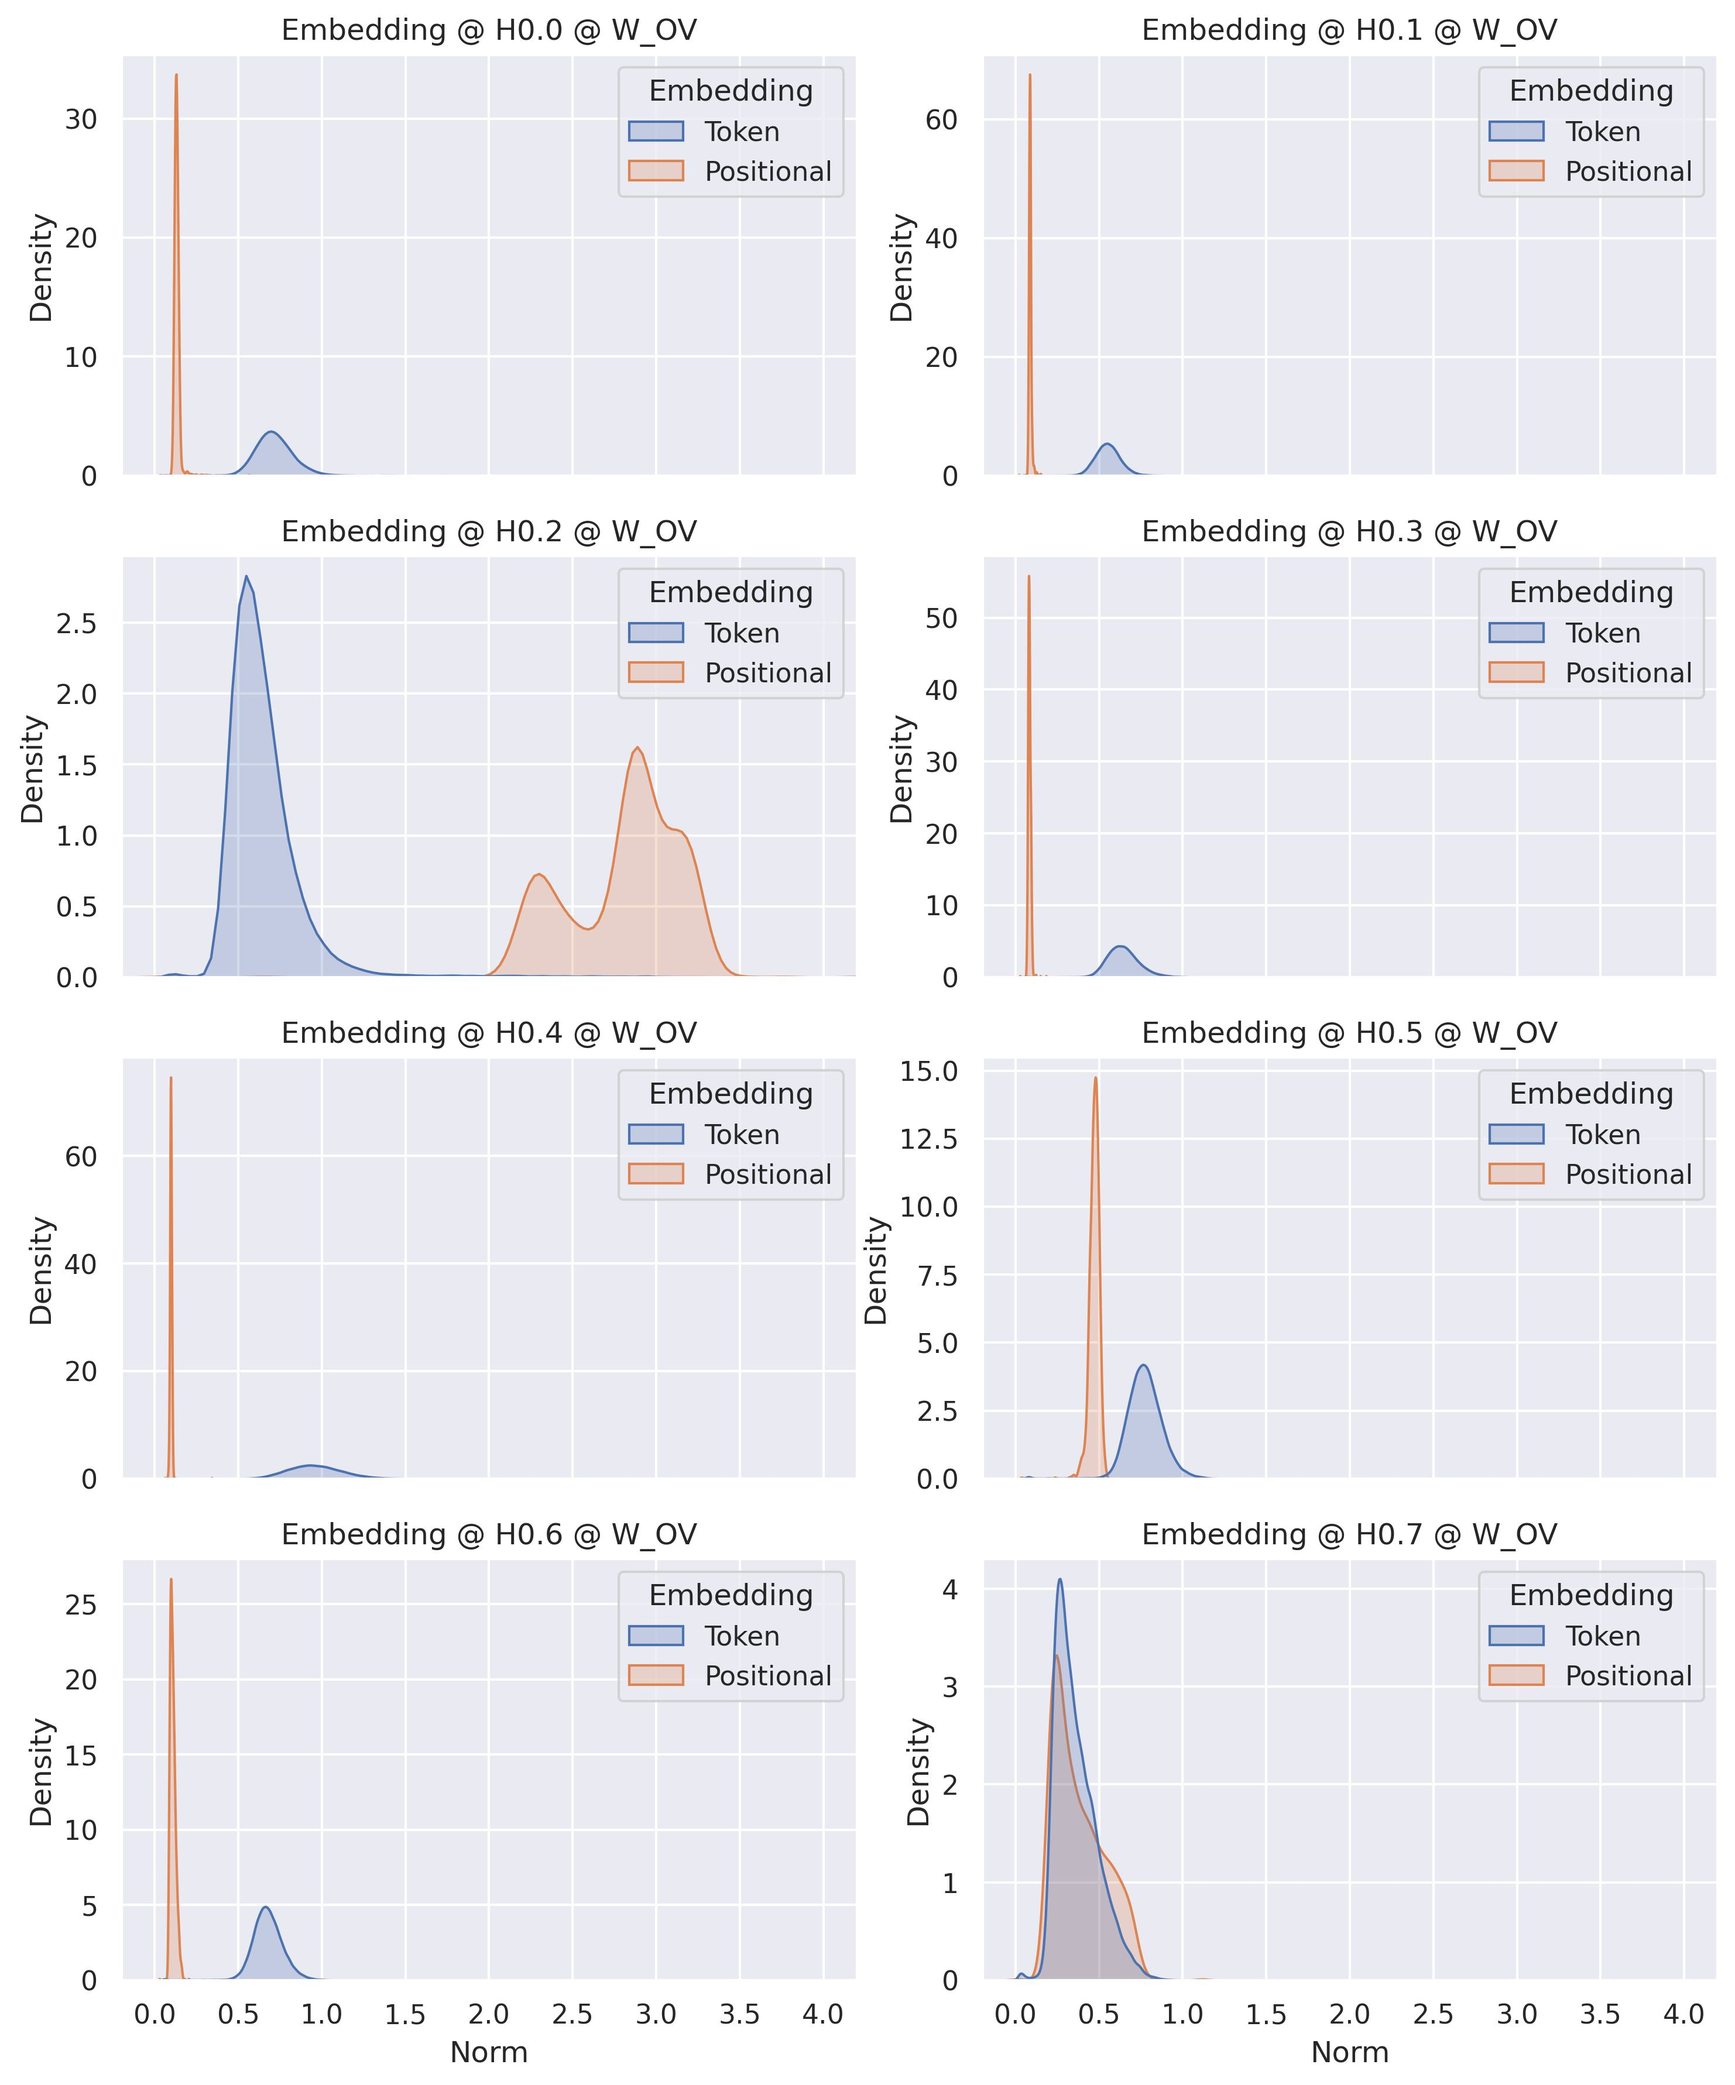
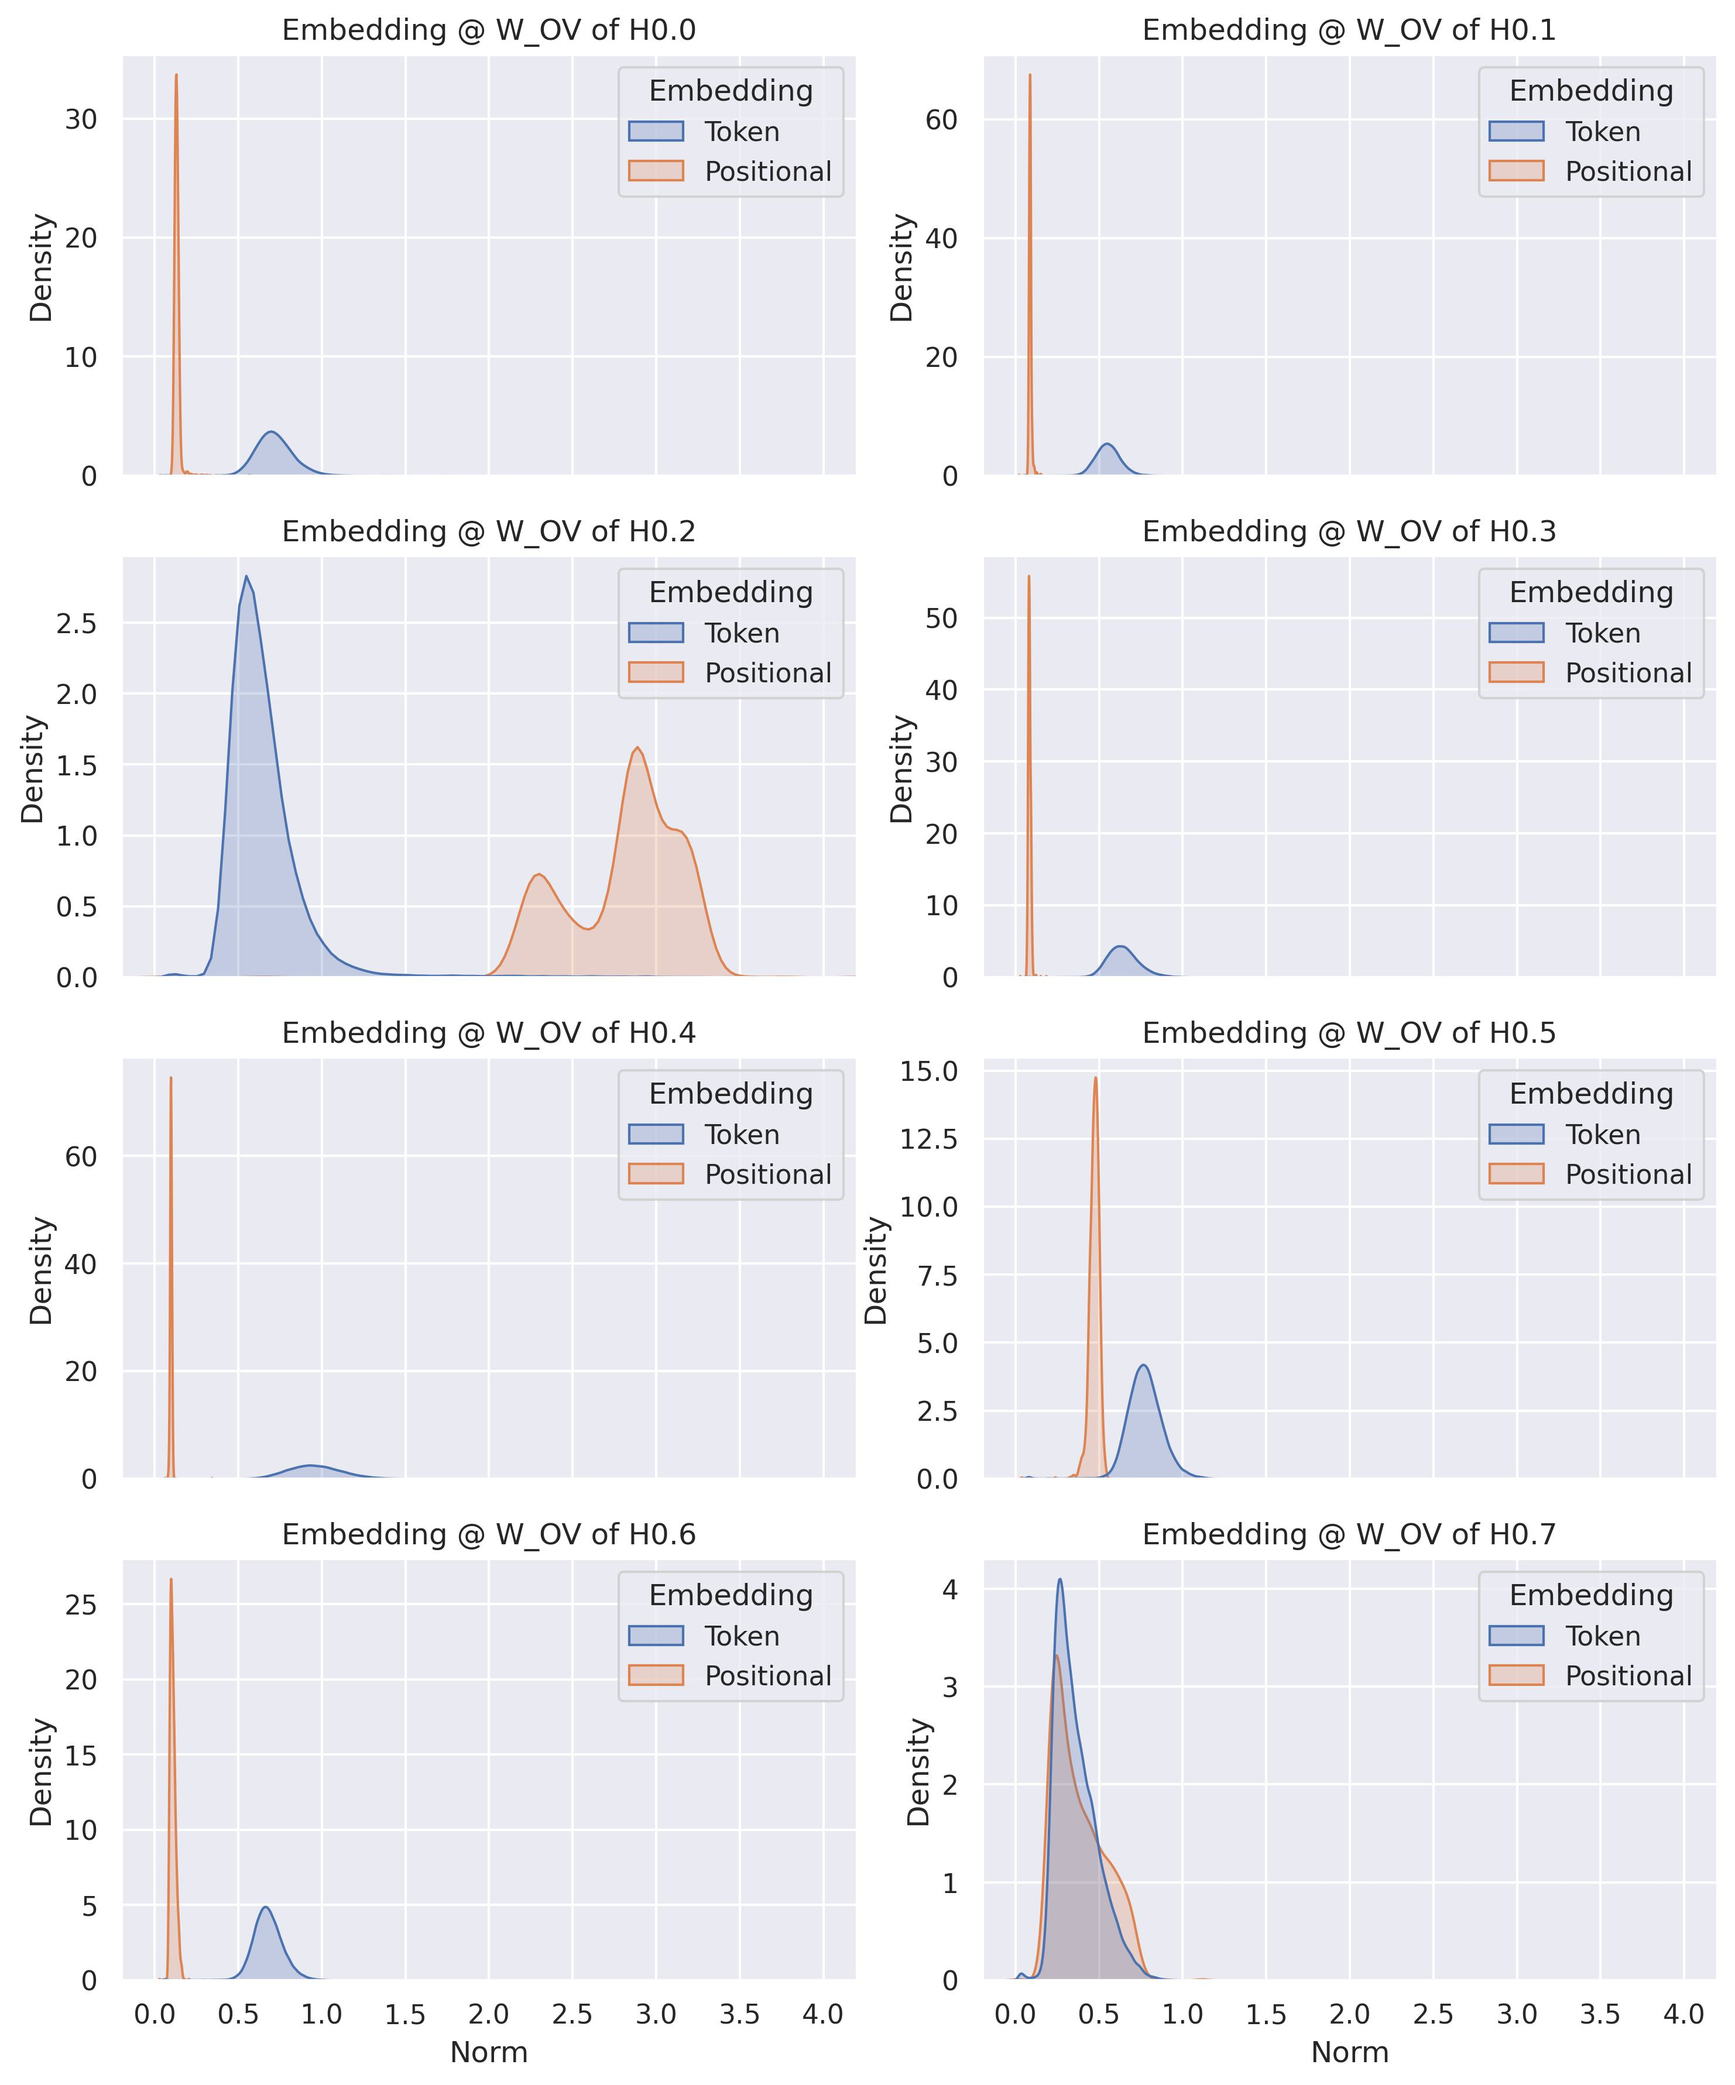
fix fig5 plot titles

diff --git a/figure_recreation/fig5_OVs_of_H0_X.py b/figure_recreation/fig5_OVs_of_H0_X.py
@@ -65,7 +65,7 @@ for head in range(model.cfg.n_heads):
         fill=True,
         ax=ax[row, col],
     )
-    ax[row, col].set_title(f"Embedding @ H{BLOCK}.{head} @ W_OV")
+    ax[row, col].set_title(f"Embedding @ W_OV of H{BLOCK}.{head}")
     ax[row, col].set_xlim([-0.2, 4.2])
     ax[row, col].set_xlabel("Norm")
 
